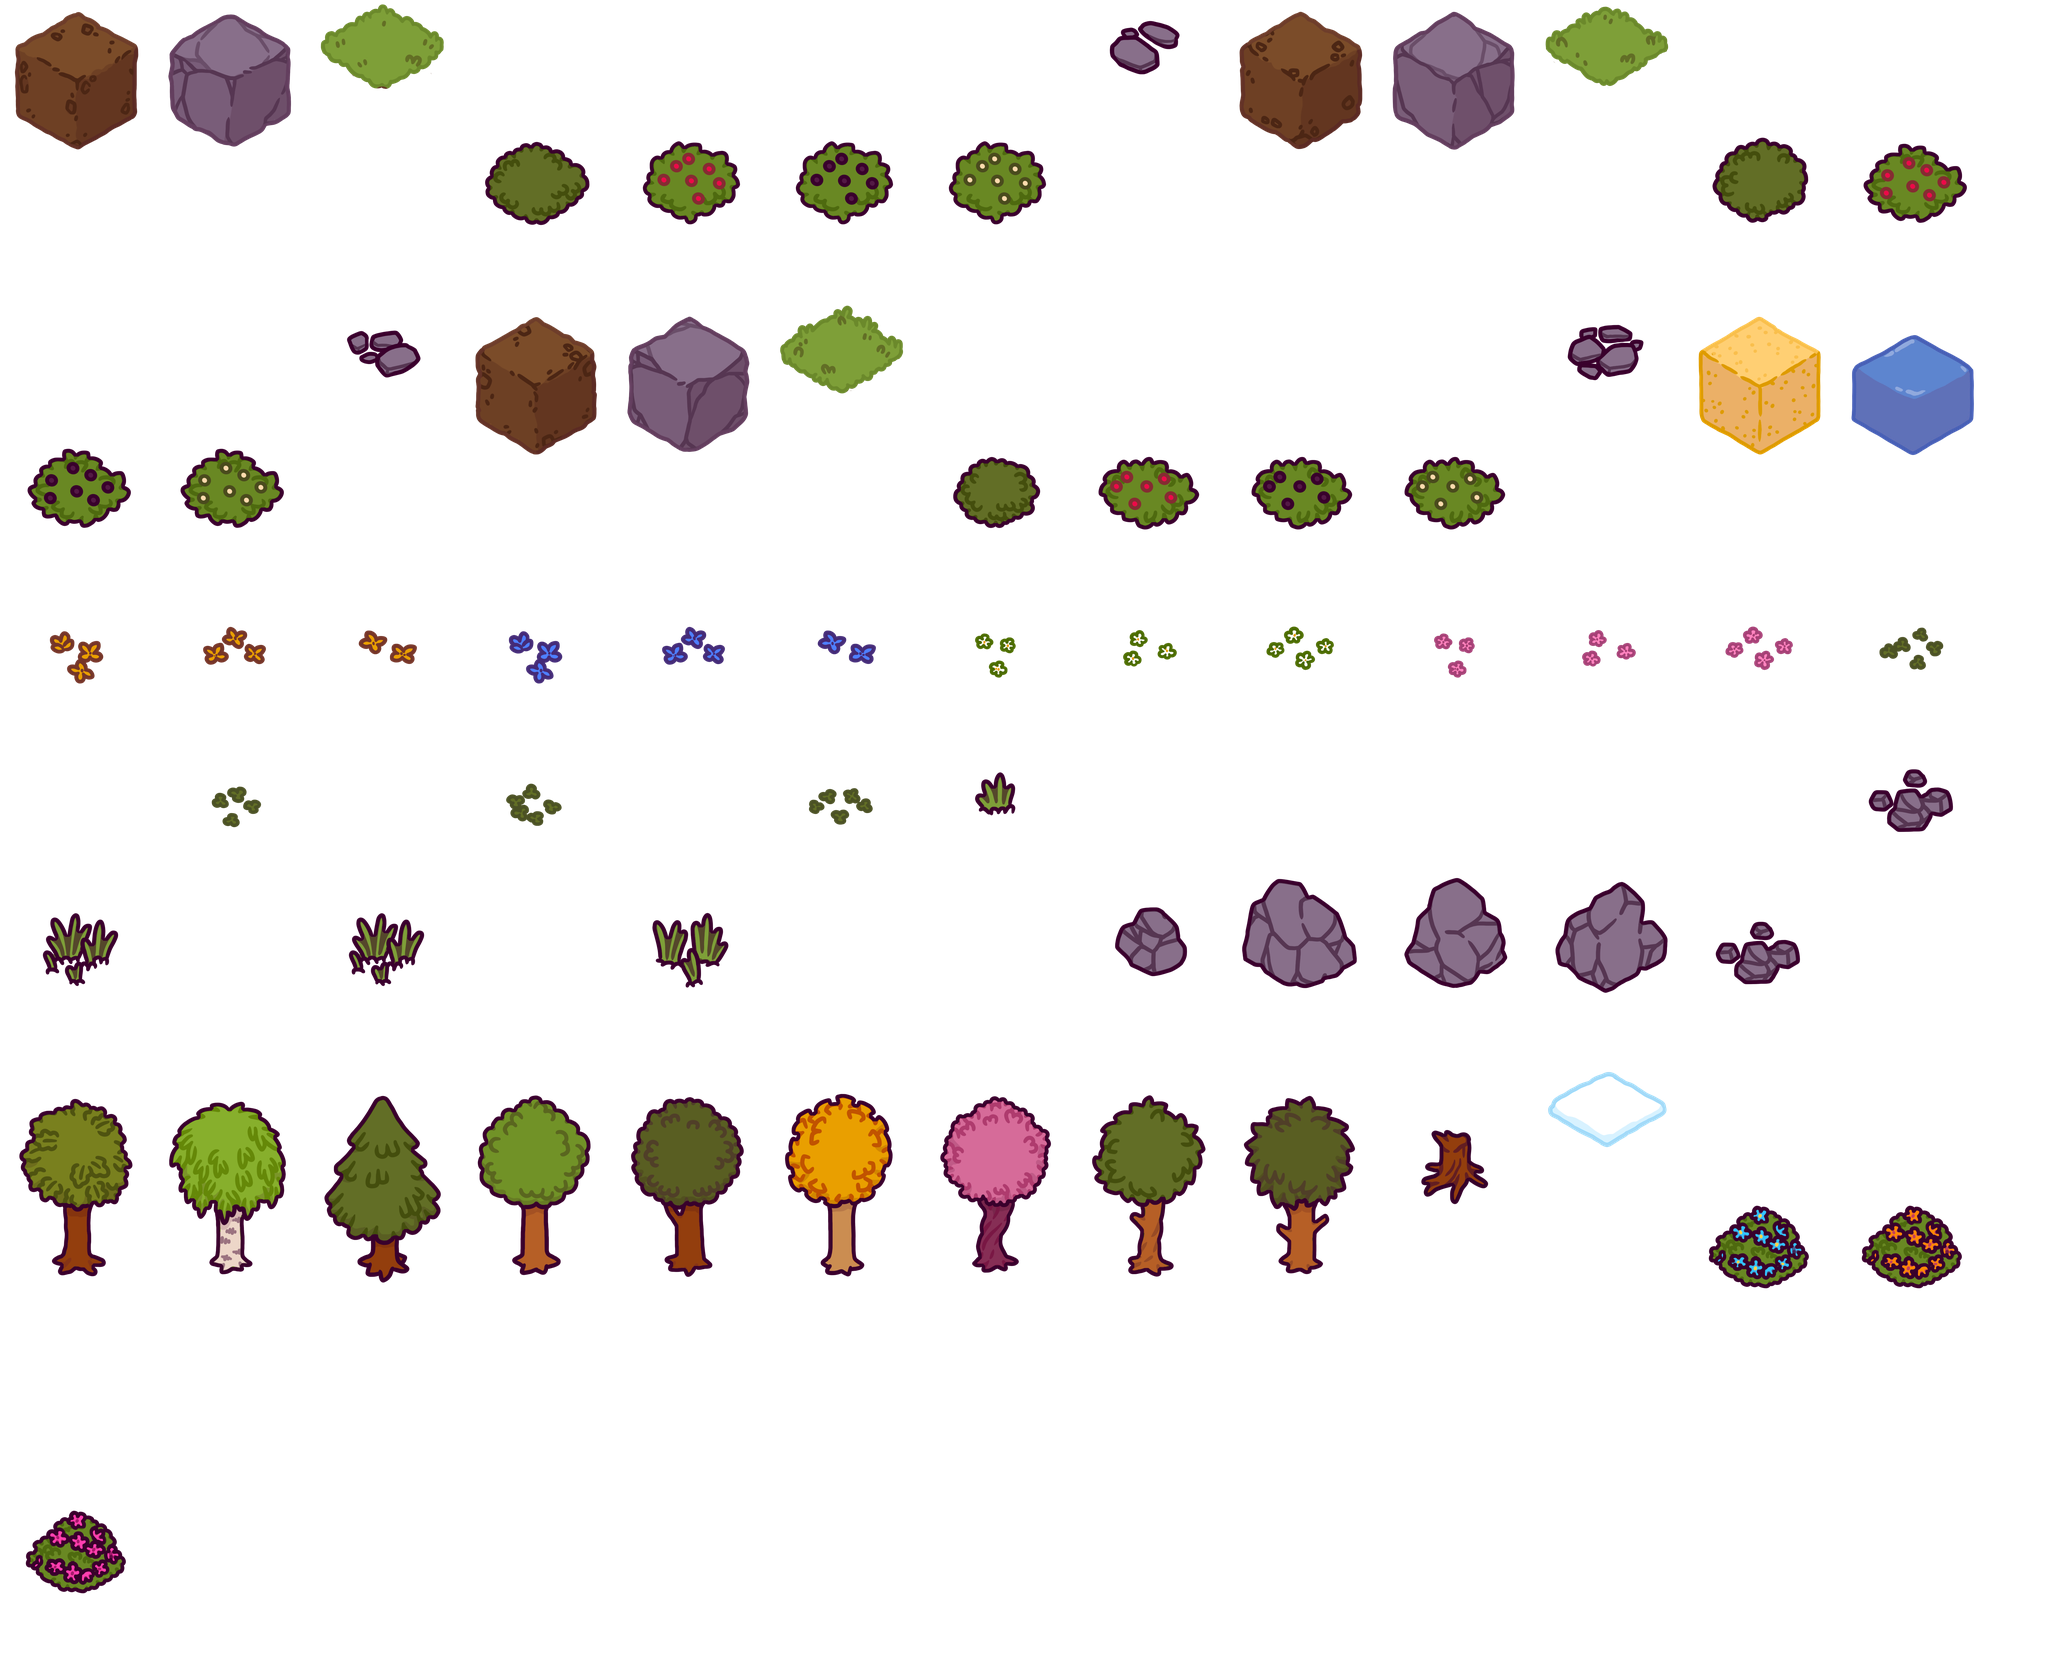
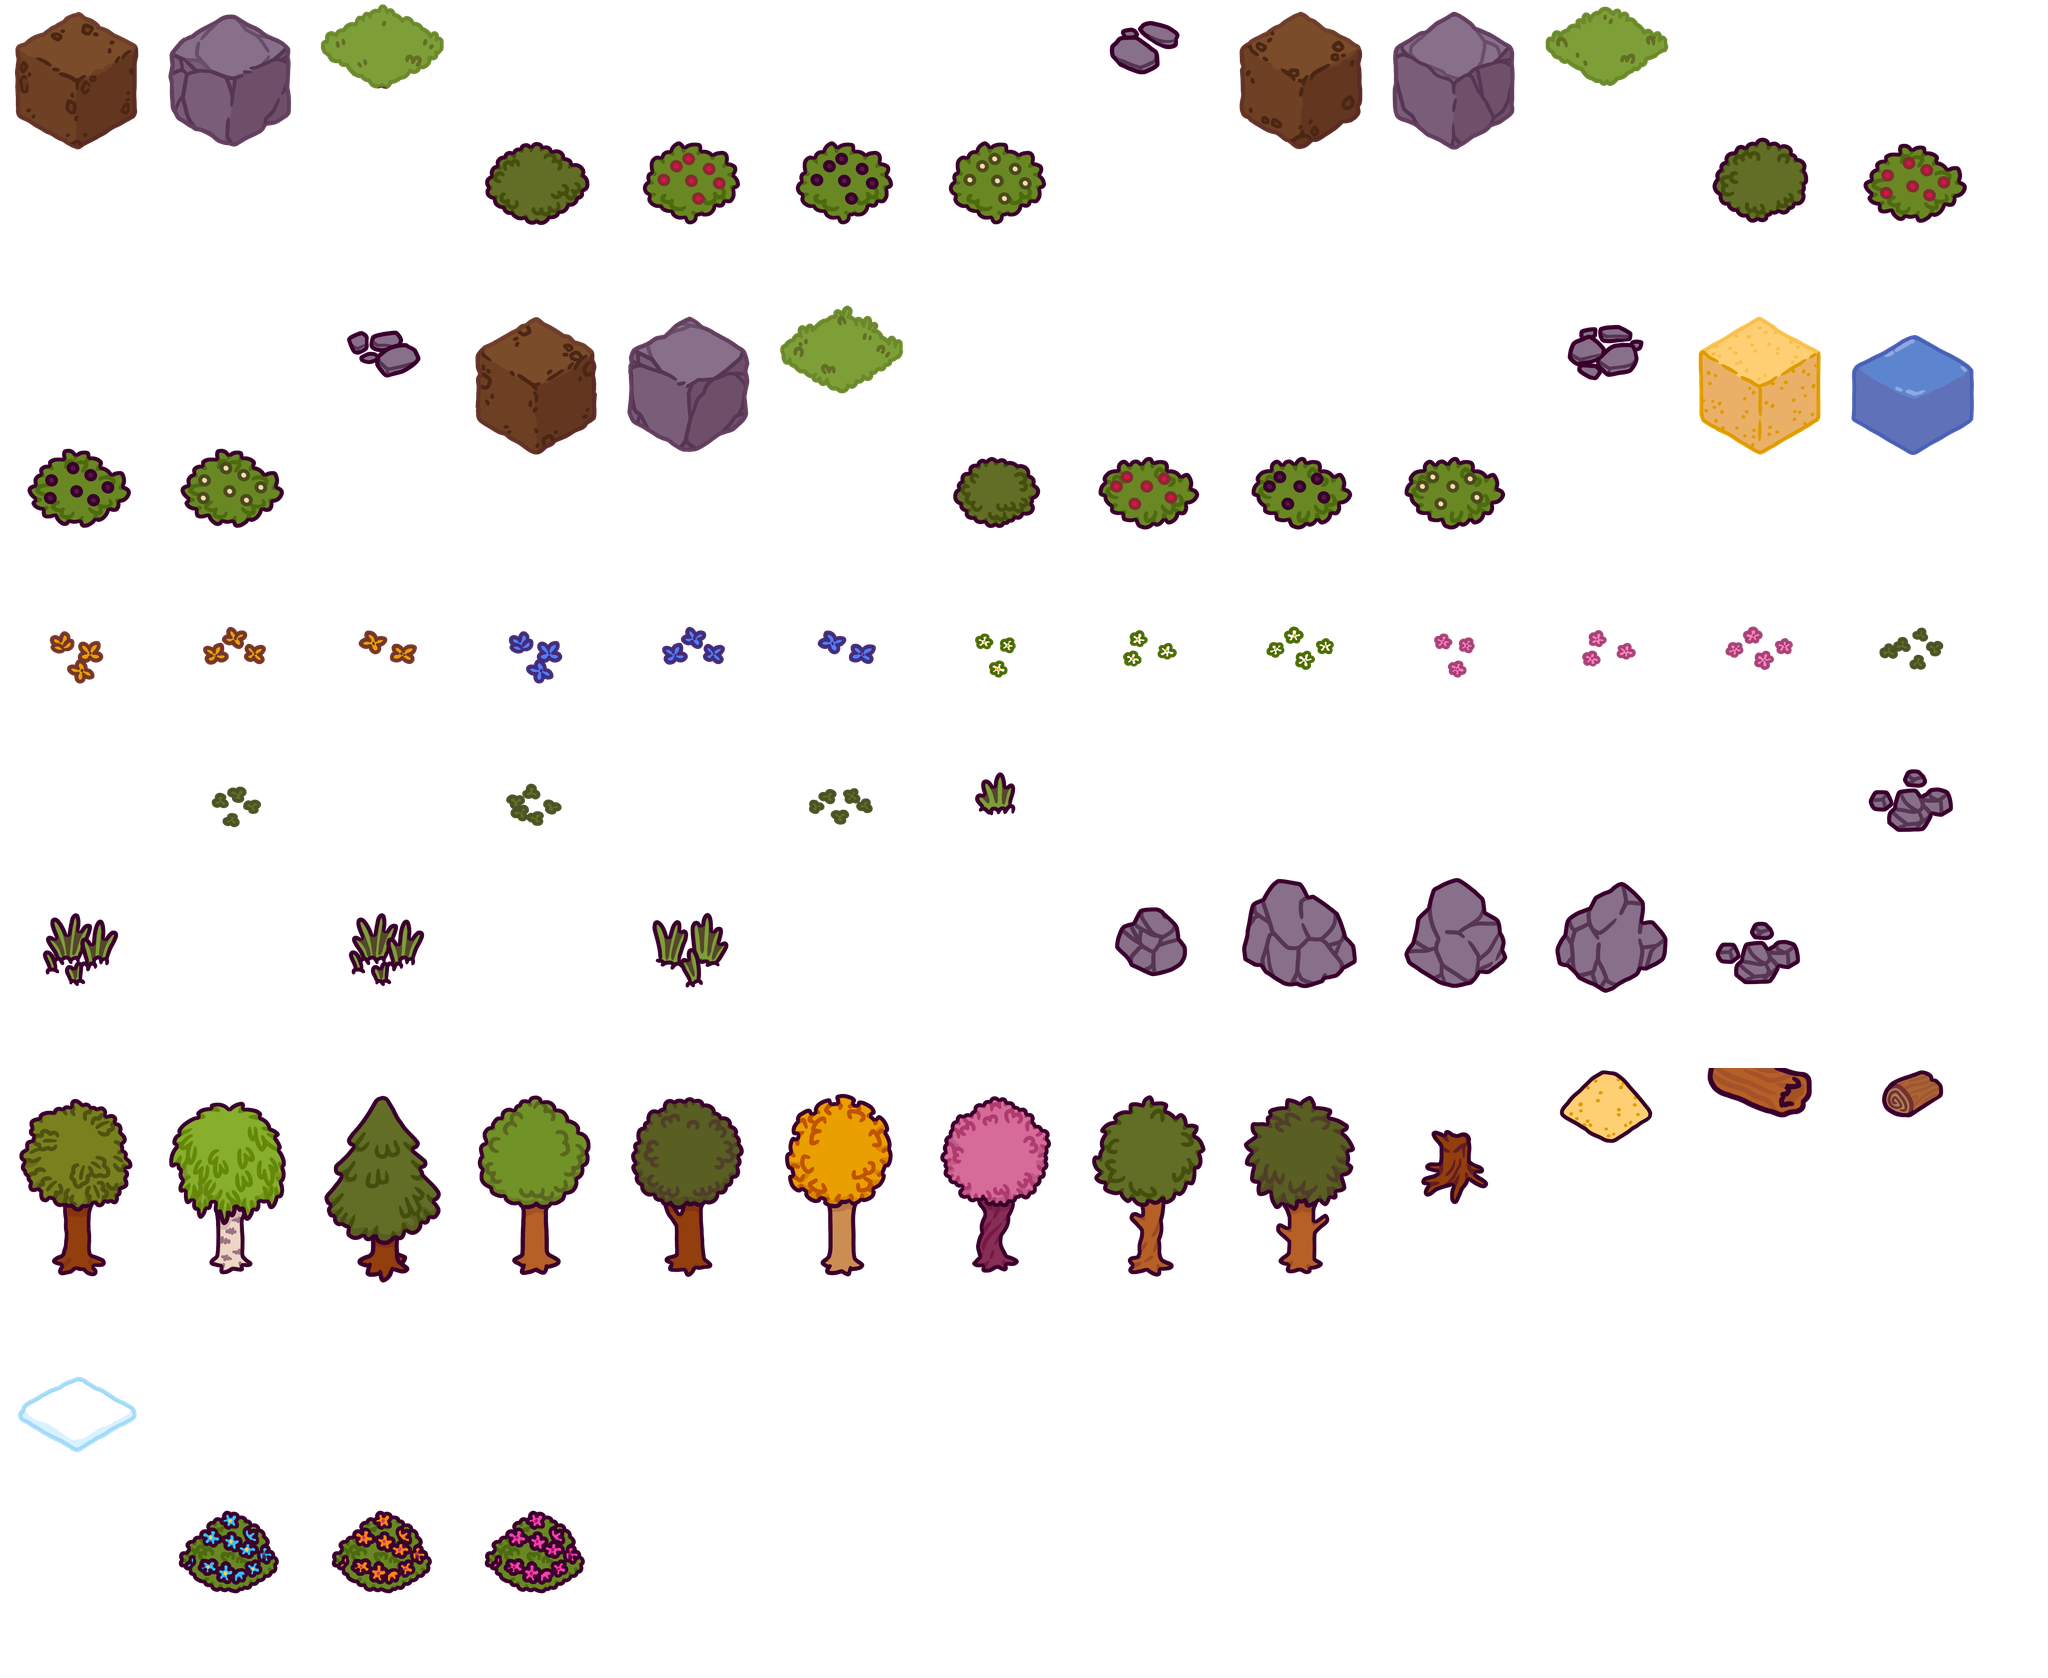
A big beach on the south coast (v1.34.0)
- a wide flat sandy beach (about 100 x 40 tiles) with a wider stretch of open sea in front of
  it, shaped by smooth noise so its edges are ragged, with low dunes
- no trees or bushes there: driftwood, rocks, reeds, sand piles and pebbles instead
- a road leads down to it; lakes, dirt patches and hills stay off it; the whole middle is
  reachable on foot from the spawn (checked by flood fill)
- two new sprites (sand pile, driftwood) in the atlas

diff --git a/src/game/world/mapGen.ts b/src/game/world/mapGen.ts
@@ -79,11 +79,29 @@ export function generateWorld(seed = 1337): WorldMap {
 
     const nearSpawn = (i: number, j: number, r: number) => Math.abs(i - SPAWN) <= r && Math.abs(j - SPAWN) <= r;
 
-    // ---- Ocean: a jittered band of water around the edge.
+    // ---- The beach: a big flat sandy stretch along the south coast (high j), between two headlands.
+    // beachAmt is 1 on the beach, 0 inland, and fades smoothly at its ends and inland edge.
+    const smooth = (a: number, b: number, x: number) => {
+        const t = Math.min(1, Math.max(0, (x - a) / (b - a)));
+        return t * t * (3 - 2 * t);
+    };
+    const BEACH_SEA = 11; // extra tiles of open sea in front of the beach
+    const BEACH_DEEP = 36; // how far inland the sand reaches from the waterline
+    const beachSpan = (i: number) => smooth(52, 80, i) * (1 - smooth(186, 214, i));
+    const beachAmt = (i: number, j: number): number => {
+        const span = beachSpan(i);
+        if (span <= 0) return 0;
+        const fromEdge = N - 1 - j;
+        const inner = OCEAN + BEACH_SEA + BEACH_DEEP + 4 * Math.sin(i * 0.09) + 3 * Math.sin(i * 0.23 + 1);
+        return span * (1 - smooth(inner - 5, inner + 6, fromEdge));
+    };
+
+    // ---- Ocean: a jittered band of water around the edge, wider in front of the beach.
     for (let j = 0; j < N; j++) {
         for (let i = 0; i < N; i++) {
             const edge = Math.min(i, j, N - 1 - i, N - 1 - j);
-            const depth = OCEAN + 1.4 * Math.sin(i * 0.17 + j * 0.05) + 1.4 * Math.sin(j * 0.13 - i * 0.07);
+            const sea = j > N / 2 ? BEACH_SEA * beachSpan(i) : 0;
+            const depth = OCEAN + sea + 1.4 * Math.sin(i * 0.17 + j * 0.05) + 1.4 * Math.sin(j * 0.13 - i * 0.07);
             if (edge < depth) terrain[at(i, j)] = WATER;
         }
     }
@@ -105,7 +123,7 @@ export function generateWorld(seed = 1337): WorldMap {
         if (terrain[at(i, j)] !== WATER || t === WATER) terrain[at(i, j)] = t;
     };
     const farFrom = (ci: number, cj: number, r: number) =>
-        Math.min(ci, cj, N - 1 - ci, N - 1 - cj) > OCEAN + r + 3 && !nearSpawn(ci, cj, r + 12);
+        Math.min(ci, cj, N - 1 - ci, N - 1 - cj) > OCEAN + r + 3 && !nearSpawn(ci, cj, r + 12) && beachAmt(ci, cj) < 0.02 && beachAmt(ci, cj + r + 6) < 0.02;
 
     // ---- Rocky ground and dirt patches (under the lakes so water wins).
     for (let n = 0, tries = 0; n < 9 && tries < 200; tries++) {
@@ -197,7 +215,10 @@ export function generateWorld(seed = 1337): WorldMap {
             const level = raw > 4.5 ? 4.5 + (raw - 4.5) * 0.62 : raw;
             const hillness = sstep(5, 22, Math.hypot(i - SPAWN, j - SPAWN));
             const k = at(i, j);
-            height[k] = Math.max(0, Math.min(MAX_HEIGHT, Math.floor(level * hillness + 0.5)));
+            const beach = beachAmt(i, j);
+            height[k] = Math.max(0, Math.min(MAX_HEIGHT, Math.floor(level * hillness * (1 - beach) + 0.5)));
+            // Low dunes: a few ridges one level high on the middle of the beach.
+            if (beach > 0.85 && fbm(i * 0.11 + 7, j * 0.16 + 3, 2, 60) > 0.74) height[k] = Math.max(height[k], 1);
             if (terrain[k] === WATER) height[k] = 0;
         }
     }
@@ -233,6 +254,16 @@ export function generateWorld(seed = 1337): WorldMap {
         if (t !== GRASS && t !== DIRT) continue;
         const i = k % N, j = (k - i) / N;
         if (height[k] >= 6 || (height[k] >= 4 && vnoise(i * 0.25, j * 0.25, 70) > 0.5)) terrain[k] = STONE;
+    }
+
+    // The beach itself is sand (grass pokes through at its ragged inland edge).
+    for (let j = 0; j < N; j++) {
+        for (let i = 0; i < N; i++) {
+            const k = at(i, j);
+            if (terrain[k] === WATER) continue;
+            const amt = beachAmt(i, j);
+            if (amt > 0.5 + 0.25 * (vnoise(i * 0.35, j * 0.35, 80) - 0.5)) terrain[k] = SAND;
+        }
     }
 
     // Spawn clearing is always flat grass.
@@ -356,6 +387,11 @@ export function generateWorld(seed = 1337): WorldMap {
         );
         if (k !== null) waypoints.push(k);
     }
+    // One waypoint on the beach itself, so a road leads down to it.
+    for (let dj = 0; dj < 30; dj++) {
+        const bj = N - 1 - (OCEAN + BEACH_SEA + 20) - dj, bi = 130;
+        if (inMap(bi, bj) && terrain[at(bi, bj)] === SAND && height[at(bi, bj)] === 0) { waypoints.push(at(bi, bj)); break; }
+    }
     const nodes = [spawnCell, ...waypoints];
     const linked = new Set<number>([0]);
     // Connect each node to its nearest already-linked node (a spanning tree), plus two cross-links.
@@ -398,7 +434,7 @@ export function generateWorld(seed = 1337): WorldMap {
     }
     // A dirt bed with stones set in it.
     for (const k of road) {
-        terrain[k] = DIRT;
+        if (terrain[k] !== SAND) terrain[k] = DIRT;
         if (rand() < 0.7) flats.push({ name: `path${intIn(1, 3)}`, i: k % N, j: Math.floor(k / N) });
     }
 
@@ -453,6 +489,20 @@ export function generateWorld(seed = 1337): WorldMap {
     scatter(900, 1, (i, j) => place(`rock${intIn(1, 5)}`, i, j, true), [GRASS, STONE, DIRT]);
     scatter(1100, 1, (i, j) => place(pick(['dbush_blue', 'dbush_orange', 'dbush_pink']), i, j, false), [GRASS], 6, 320, 0.45);
     scatter(9000, 0, (i, j) => place(`tallgrass${intIn(1, 4)}`, i, j, false), [GRASS, DIRT], 6, 330, 0.35);
+    // The beach: driftwood, rocks and reeds (no trees or bushes); sand piles and pebbles on the ground.
+    scatter(120, 3, (i, j) => place(rand() < 0.6 ? 'driftwood1' : 'driftwood2', i, j, true), [SAND], 1, 340, 0.3);
+    scatter(60, 3, (i, j) => place(`rock${intIn(1, 5)}`, i, j, true), [SAND], 1);
+    scatter(260, 1, (i, j) => place(`tallgrass${intIn(1, 4)}`, i, j, false), [SAND], 1, 350, 0.55);
+    for (let j = 0; j < N; j++) {
+        for (let i = 0; i < N; i++) {
+            const k = at(i, j);
+            if (terrain[k] !== SAND || beachAmt(i, j) < 0.5 || road.has(k) || occupied.has(k)) continue;
+            const r = rand();
+            if (r < 0.035) flats.push({ name: 'sandpile', i, j });
+            else if (r < 0.075) flats.push({ name: 'pebbles', i, j });
+        }
+    }
+
     // Reeds along the shore, and stones breaking the surface of shallow water.
     for (let k = 0; k < terrain.length; k++) {
         const i = k % N, j = (k - i) / N;

diff --git a/src/game/world/isoAtlas.ts b/src/game/world/isoAtlas.ts
@@ -373,26 +373,44 @@ export const ISO_FRAMES: Record<string, [number, number, number, number]> = {
         153,
         153
     ],
-    "snow": [
+    "sandpile": [
         1530,
         1068,
         153,
         153
     ],
-    "dbush_blue": [
+    "driftwood1": [
         1683,
         1068,
+        153,
+        153
+    ],
+    "driftwood2": [
+        1836,
+        1068,
+        153,
+        153
+    ],
+    "snow": [
+        0,
+        1373,
+        153,
+        153
+    ],
+    "dbush_blue": [
+        153,
+        1373,
         153,
         305
     ],
     "dbush_orange": [
-        1836,
-        1068,
+        306,
+        1373,
         153,
         305
     ],
     "dbush_pink": [
-        0,
+        459,
         1373,
         153,
         305

diff --git a/tools/build-iso-atlas.py b/tools/build-iso-atlas.py
@@ -47,6 +47,19 @@ for name, file in {
 }.items():
     sprites[f"tree_{name}"] = src(f"Trees/{file}.png")
 sprites["stump"] = src("Trees/Tree_Root.png")
+sprites["sandpile"] = src("Ground/TileOverlay_SandPile.png")
+
+def on_tile(path, scale=1.35, drop=24):
+    """A placeable item (about 250 px) set on a 500 px tile canvas: bottom centre just below the tile centre."""
+    item = Image.open(path).convert("RGBA")
+    item = item.resize((round(item.width * scale), round(item.height * scale)), Image.LANCZOS)
+    canvas = Image.new("RGBA", (500, 500), (0, 0, 0, 0))
+    canvas.alpha_composite(item, (250 - item.width // 2, 139 + drop - item.height))
+    return canvas
+
+PACK = "src/assets/Ultimate_Isometric_Pack (1)/PlacebleItems/"
+sprites["driftwood1"] = on_tile(PACK + "Wood/Wood_OldLog.png")
+sprites["driftwood2"] = on_tile(PACK + "Wood/Wood_Log.png", 1.2)
 sprites["snow"] = src("Water/TileOverlayDiscreet_Snow.png")
 for color in ("Blue", "Orange", "Pink"):
     sprites[f"dbush_{color.lower()}"] = src(f"Bushes/Bush_DecorativeBush_{color}.png")
